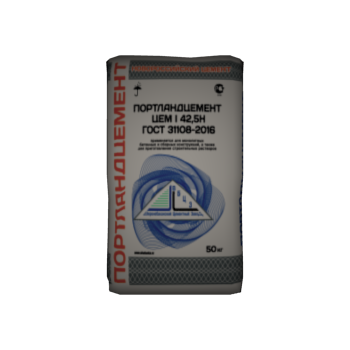
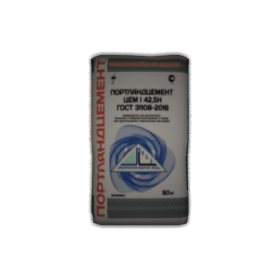
fix size again

Changed region(s): [[0.2857, 0.1429, 0.7143, 0.8571]]

diff --git a/index.html b/index.html
@@ -6,6 +6,7 @@
 
 	<link rel="stylesheet" href="css/reset.css"> <!-- CSS reset -->
 	<link rel="stylesheet" href="css/style.css"> <!-- Resource style -->
+	<link rel="stylesheet" href="https://unpkg.com/simplebar@latest/dist/simplebar.css" />
 	<script src="js/modernizr.js"></script> <!-- Modernizr -->
   	
 	<title>Портландцемент ГОСТ 31108-2016</title>
@@ -13,7 +14,7 @@
 <body>
 <div class="cd-product-viewer-wrapper" data-frame="36" data-friction="0.33">
 	<div class="cd-product-viewer-mask">
-	    <div class="features" data-pos-scale-x="0.4375" data-pos-scale-y="0.5" data-pos-offset-y="-50">
+	    <div class="features" data-pos-scale-x="0.33" data-pos-scale-y="0.4" data-pos-offset-y="-40">
 	        <div id="bag-address"
                  class='feature' 
 	             data-tooltip="ОАО&nbsp;&laquo;Верхнебаканский&nbsp;цементный&nbsp;завод&raquo;, Россия, Краснодарский&nbsp;край, г.&nbsp;Новороссийск, п.&nbsp;Верхнебаканский, ул.&nbsp;Орловская, д.&nbsp;11 тел./факс:&nbsp;(8617)&nbsp;27&#8209;64&#8209;24, 27&#8209;64&#8209;25, sbyt@bakanka.ru"
@@ -65,7 +66,7 @@
 			<span class="handle">Указатель</span>
 		</div>
     </div> <!-- .cd-product-viewer-handle -->
-    <div class="features-explicit">
+    <div class="features-explicit" data-simplebar>
         <div class="feature-explicit" data-feature-id="bag-material" data-slide="25"><h3>Фон мешка</h3><span class="feature-explicit-expand"></span></div>
         <div class="feature-explicit" data-feature-id="bag-logo" data-slide="0"><h3>Товарный знак</h3><span class="feature-explicit-expand"></span></div>
         <div class="feature-explicit" data-feature-id="bag-cert" data-slide="0"><h3>Знак соответствия обязательной сертификации СЛ02</h3><span class="feature-explicit-expand"></span></div>
@@ -81,6 +82,7 @@
 <script src="js/jquery.mobile.custom.min.js"></script>
 <script src="js/popper.min.js"></script>
 <script src="js/tooltip.min.js"></script>
+<script src="https://unpkg.com/simplebar@latest/dist/simplebar.js"></script>
 <script src="js/main.js"></script> <!-- Resource jQuery -->
 </body>
 </html>

diff --git a/css/style.css b/css/style.css
@@ -63,10 +63,10 @@ Main Components
     flex-direction: row;
 }
 .cd-product-viewer-mask {
-    min-width: 350px;
-    width: 350px;
-    min-height: 350px;
-    height: 350px;
+    min-width: 280px;
+    width: 280px;
+    min-height: 280px;
+    height: 280px;
     position: fixed;
     left: 0;
 }
@@ -273,12 +273,13 @@ Main Components
 }
 
 .features-explicit {
-    background-color: rgba(255,255,255,0.05);
-    margin-left: 350px;
-    min-width: 300px;
+    background-color: transparent;
+    margin-left: 280px;
+    min-width: 350px;
     width: 100%;
-    height: auto;
+    height: 280px;
     z-index: 1000;
+    overflow-y: scroll;
 }
 
 .feature-explicit {
@@ -305,7 +306,7 @@ Main Components
     background-color: rgba(0, 0, 0, 0.7);
     margin-top: 4px;
     padding: 0.5em;
-    max-width: 350px;
+    max-width: 240px;
     width: auto;
     text-overflow: ellipsis;
     overflow-wrap: break-word;
